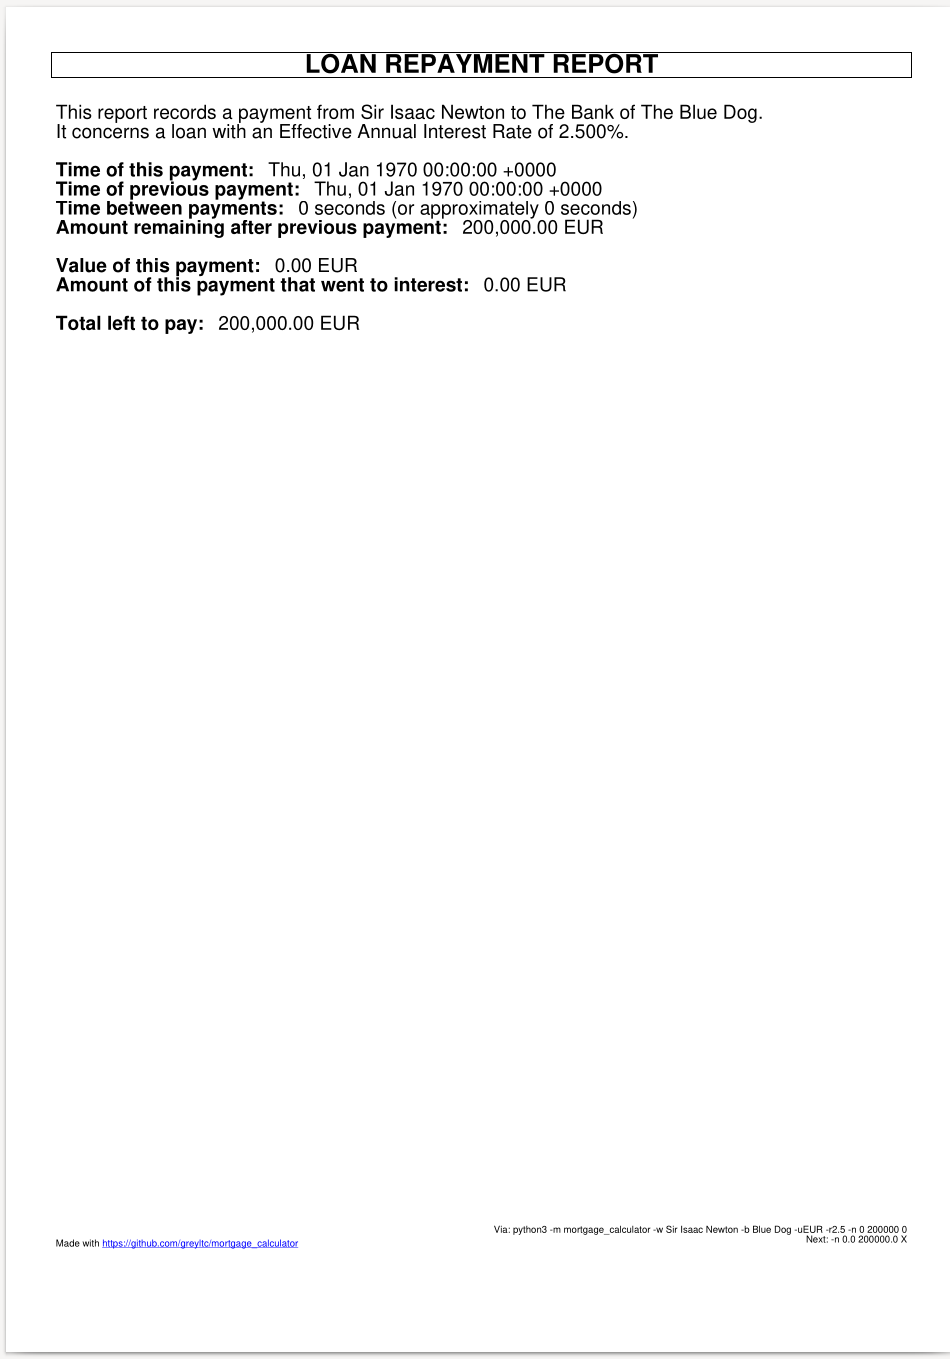
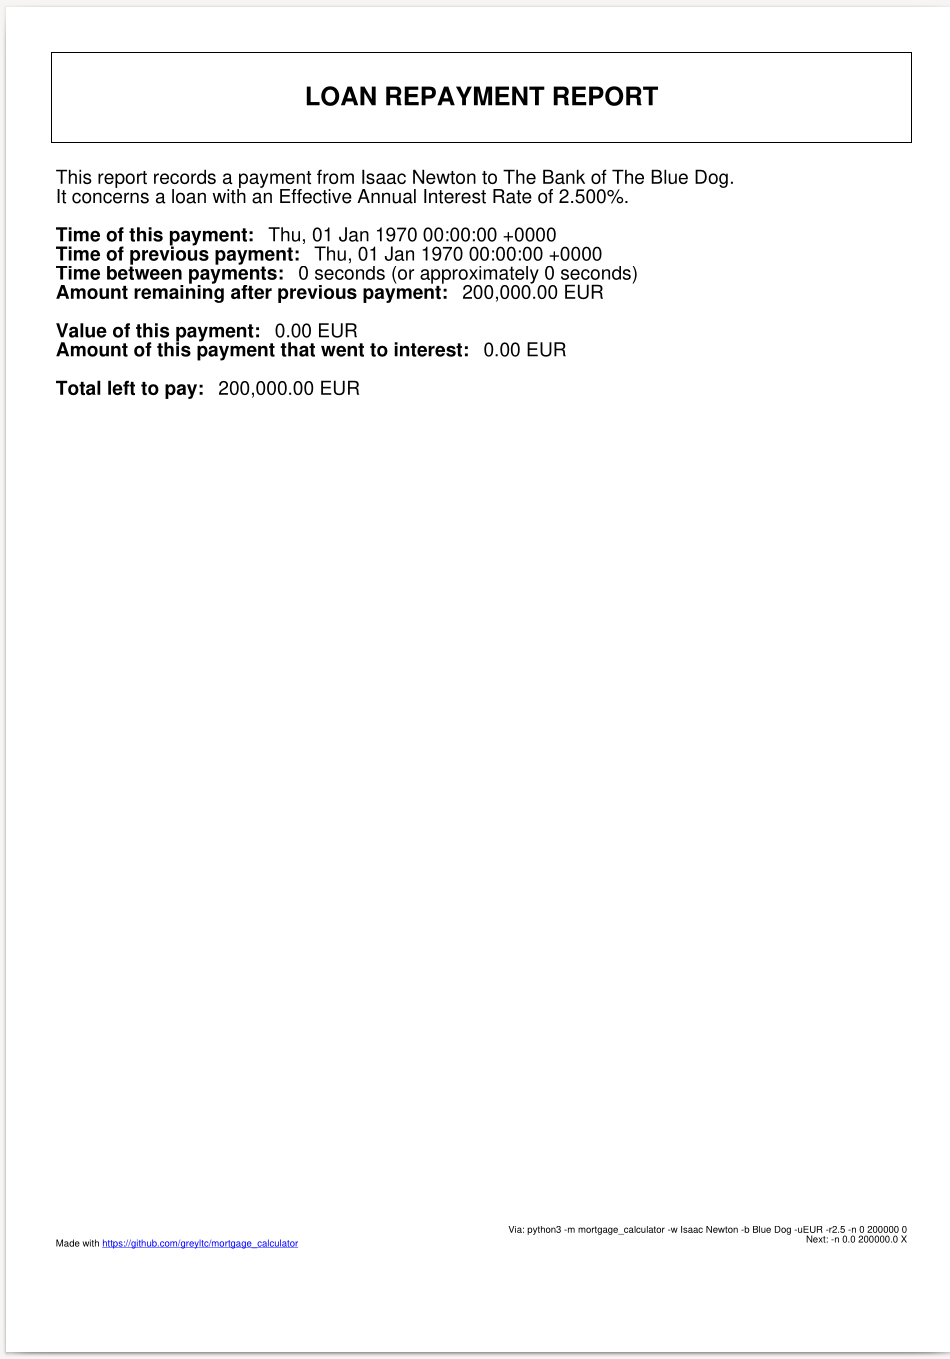
fix report header

Changed region(s): [[0.0611, 0.0309, 0.7937, 0.3091], [0.5189, 0.8962, 0.7021, 0.9272], [0.5189, 0.2472, 0.58, 0.2781]]

diff --git a/src/mortgage_calculator/__main__.py b/src/mortgage_calculator/__main__.py
@@ -115,7 +115,7 @@ def _main(cli_args: Sequence[str], program: Optional[str] = None) -> None:
         pdf = FPDF(orientation="P", unit="mm", format="A4")
         pdf.add_page()
         pdf.set_font("helvetica", "B", 16)
-        pdf.cell(w=0, text="\nLOAN REPAYMENT REPORT\n", border=1, align="C", new_x="LMARGIN", new_y="NEXT")
+        pdf.cell(w=0, h=20, text="LOAN REPAYMENT REPORT", markdown=True, border=1, align="C", new_x="LMARGIN", new_y="NEXT")
         pdf.cell(text=" ", new_x="LMARGIN", new_y="NEXT")
         pdf.set_font(size=12)
         if args.borrower_name and args.bank_name:
